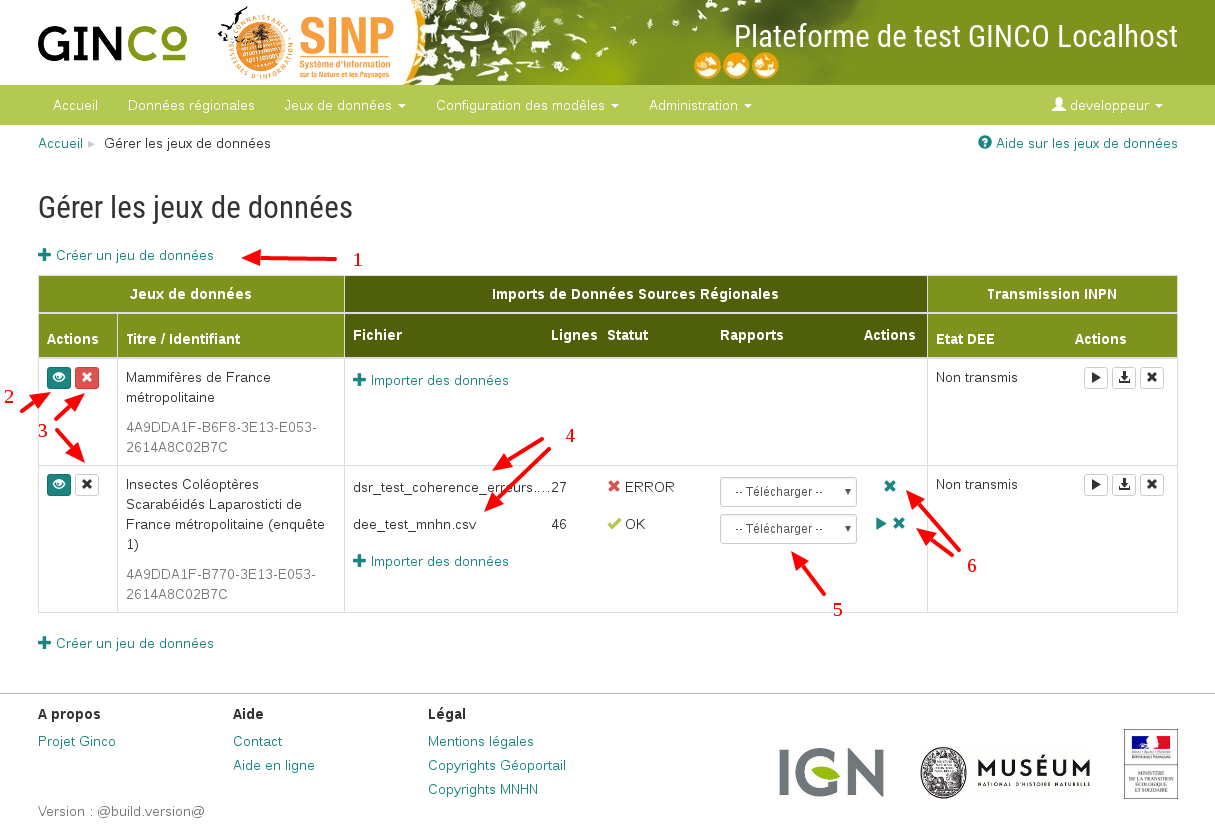
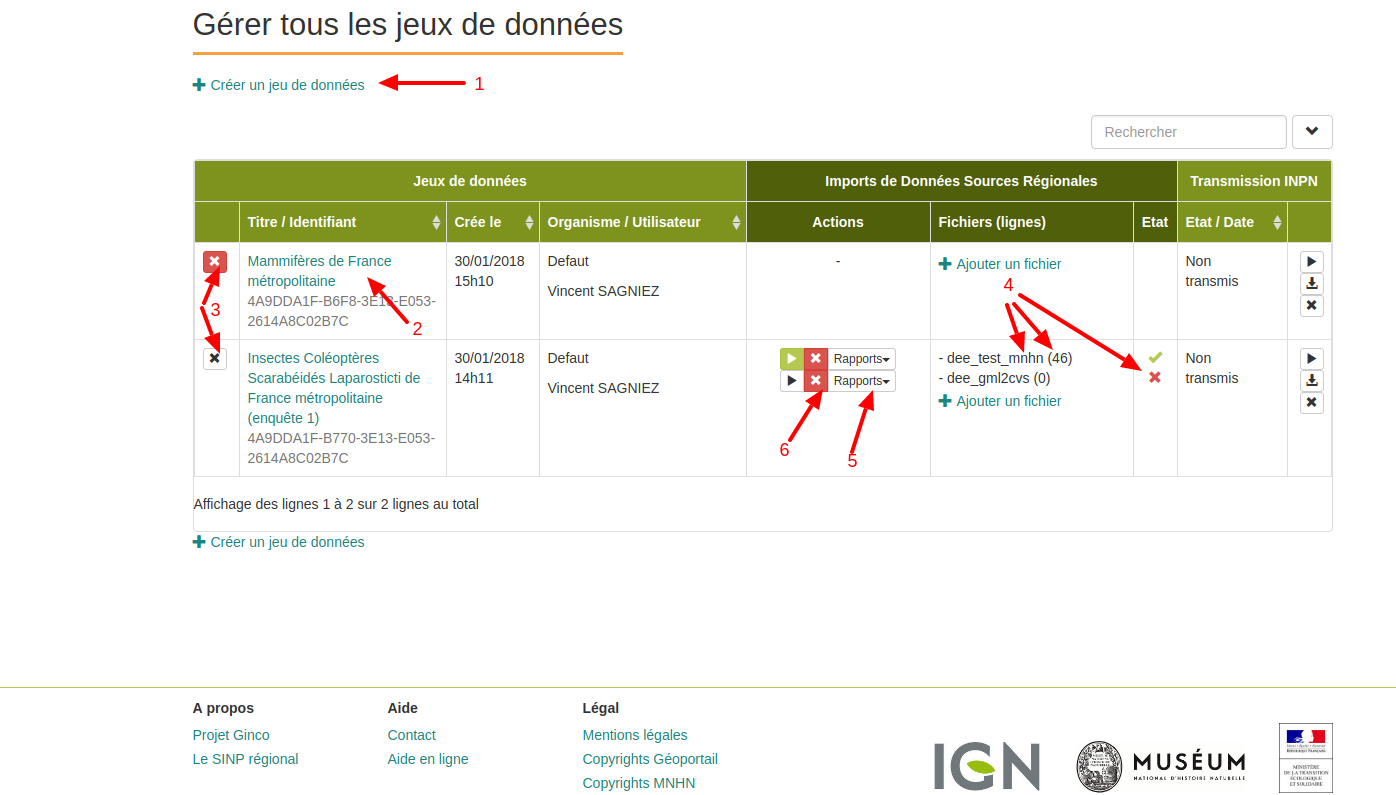
#1384:Modify Documentation for manage data and organism

diff --git a/documentation/user/source/gestion-jdd/gerer-les-jeux-de-donnees.rst b/documentation/user/source/gestion-jdd/gerer-les-jeux-de-donnees.rst
@@ -90,7 +90,7 @@ Elle permet de créer un nouveau jeu de données (**1**).
 Un tableau regroupe les jeux de données existants en indiquant leur titre et leur identifiant de métadonnée.
 La colonne **Actions** permet de :
 
-2. Visualiser un jeu de données en détail.
+2. Visualiser un jeu de données en détail en cliquant sur le titre du jeu de données
 3. Supprimer un jeu de données. La suppression n'est possible que si le jeu de données ne comporte aucune soumission (croix rouge). Dans le cas contraire, la croix est grisée.
 
 Au sein d'un jeu de données, ce tableau liste les fichiers de données qui ont été soumis à l'application (**4**). Pour chaque soumission, on visualise :
@@ -99,9 +99,14 @@ Au sein d'un jeu de données, ce tableau liste les fichiers de données qui ont 
 * le nombre de lignes (plus exactement le nombre de données) que comporte le fichier
 * le statut de la soumission (en cours, ok, error)
 
-Sous "Rapport" (**5**) on peut télécharger :
+Sous "Rapport" (**5**): 
+
+On peut télécharger en cas d'erreur lors de l'import de données:
 
 * le **Rapport de conformité et cohérence** qui est un pdf listant les éventuelles erreurs rencontrées lors de l'intégration.
+
+On peut télécharger en cas de succès d'import de données:
+ 
 * le **Rapport de sensibilité** qui est un csv listant les données sensibles du jeu de données (le calcul de la sensibilité
   fait partie des traitements réalisés par l'application lors de l'import). Ce rapport est téléchargeable seulement si le statut de la soumission est OK.
 * le **Rapport des identifiants permanents** qui est un csv associant un identifiant permanent à chaque donnée de la soumission (plus précisément le champ identifiantOrigine). Le calcul de l’identifiant permanent est réalisé par l’application lorsque le champ du fichier est vide à l’import.. Ce rapport est téléchargeable seulement si le statut de la soumission est OK.

diff --git a/documentation/user/source/utilisateurs/administrer-les-organismes.rst b/documentation/user/source/utilisateurs/administrer-les-organismes.rst
@@ -36,6 +36,7 @@ Vous accédez ensuite à :
 * la liste des utilisateurs associés à cet organisme ;
 * la liste des jeux de données associés à cet organisme ;
 * la liste des soumissions (fichiers de données) associées à cet organisme.
+* la liste des jeux de données utilisés par cet organisme
 
 Vous ne pouvez supprimer un organisme de la plateforme que si ces trois listes sont vides.
 
